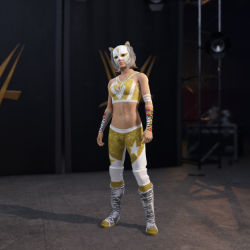
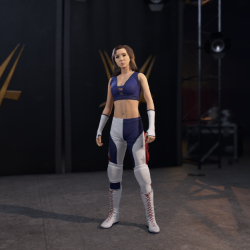
Season 3 Update
Added/updated Renders
Updated roster
Updated shows
Updated champions
Updated factions

Changed region(s): [[0.364, 0.168, 0.644, 0.952], [0.868, 0.252, 0.896, 0.28], [0.756, 0.336, 0.784, 0.364]]

diff --git a/champions.html b/champions.html
@@ -19,7 +19,7 @@
 
 <body onload="loadChampions()">
 
-	<h1 style="font-size: 2em; margin-bottom: 0;">Last Updated: WrestleMania 2</h1>
+	<h1 style="font-size: 2em; margin-bottom: 0; font-family: Verdana;">Last Updated: WrestleMania 2</h1>
 
 	<span class="all-champions-container">
 
@@ -29,7 +29,7 @@
 			<h4 id="title-1">Triple Crown Champion</h4>
 			<p id="title-current-1">Josh</p>
 			<br>
-			<p class="title-history" onclick="history1()">v TITLE HISTORY v</p>
+			<p class="title-history" onclick="openHistory(1)">v TITLE HISTORY v</p>
 			<p3 id="title-history-1" style="display: none;"></p3>
 		</div>
 
@@ -39,7 +39,7 @@
 			<h4 id="title-2">Women's Champion</h4>
 			<p id="title-current-2">Valkyrie</p>
 			<br>
-			<p class="title-history" onclick="history2()">v TITLE HISTORY v</p>
+			<p class="title-history" onclick="openHistory(2)">v TITLE HISTORY v</p>
 			<p3 id="title-history-2" style="display: none;"></p3>
 		</div>
 
@@ -49,7 +49,7 @@
 			<h4 id="title-3">Intercontinental Champion</h4>
 			<p id="title-current-3">Vacant</p>
 			<br>
-			<p class="title-history" onclick="history3()">v TITLE HISTORY v</p>
+			<p class="title-history" onclick="openHistory(3)">v TITLE HISTORY v</p>
 			<p3 id="title-history-3" style="display: none;"></p3>
 		</div>
 
@@ -59,8 +59,28 @@
 			<h4 id="title-4">United States Champion</h4>
 			<p id="title-current-4">Catwoman - 0</p>
 			<br>
-			<p class="title-history" onclick="history4()">v TITLE HISTORY v</p>
+			<p class="title-history" onclick="openHistory(4)">v TITLE HISTORY v</p>
 			<p3 id="title-history-4" style="display: none;"></p3>
+		</div>
+
+		<div class="champion-container">
+			<img width="256" height="128" src="" alt="" id="title-render-5" class="title-render">
+			<br>
+			<h4 id="title-5">ECW Championship</h4>
+			<p id="title-current-5">Vacant</p>
+			<br>
+			<p class="title-history" onclick="openHistory(5)">v TITLE HISTORY v</p>
+			<p3 id="title-history-5" style="display: none;"></p3>
+		</div>
+
+		<div class="champion-container">
+			<img width="256" height="128" src="" alt="" id="title-render-6" class="title-render">
+			<br>
+			<h4 id="title-6">Women's Hardcore Championship</h4>
+			<p id="title-current-6">Vacant</p>
+			<br>
+			<p class="title-history" onclick="openHistory(6)">v TITLE HISTORY v</p>
+			<p3 id="title-history-6" style="display: none;"></p3>
 		</div>
 	</span>
 
@@ -69,37 +89,16 @@
 <script type="text/javascript">
 	var myData;
 
-	function history1()
+	function openHistory(num)
 	{
-		var div = document.getElementById("title-history-1");
-		if (div.style.display == "block") div.style.display = "none";
-		else div.style.display = "block";
-	}
-
-	function history2()
-	{
-		var div = document.getElementById("title-history-2");
-		if (div.style.display == "block") div.style.display = "none";
-		else div.style.display = "block";
-	}
-
-	function history3()
-	{
-		var div = document.getElementById("title-history-3");
-		if (div.style.display == "block") div.style.display = "none";
-		else div.style.display = "block";
-	}
-
-	function history4()
-	{
-		var div = document.getElementById("title-history-4");
+		var div = document.getElementById("title-history-" + num);
 		if (div.style.display == "block") div.style.display = "none";
 		else div.style.display = "block";
 	}
 
     async function loadChampions()
   	{
-  		const response = await fetch("champions.json?v=1.0.0");
+  		const response = await fetch("champions.json?v=1.2");
   		const json = await response.text();
   		myData = JSON.parse(json);
 

diff --git a/factions.html b/factions.html
@@ -18,12 +18,44 @@
 </header>
 
 <body>
+	<!-- MENS FACTIONS -->
 	<div style="margin-bottom: .5em; text-align: center;">
 		<h1 style="text-decoration: underline; margin-bottom: .25em;">Evolution</h1>
 		<p4>Josh</p4>
 		<p4>King Alexander</p4>
 		<p4>Dash Anderson</p4>
 		<p4>CJ Lee</p4>
+	</div>
+
+	<div style="margin-bottom: .5em; text-align: center;">
+		<h1 style="text-decoration: underline; margin-bottom: .25em;">The Industry</h1>
+		<p4>-</p4>
+		<p4>-</p4>
+		<p4>-</p4>
+		<p4>-</p4>
+	</div>
+
+	<div style="margin-bottom: .5em; text-align: center;">
+		<h1 style="text-decoration: underline; margin-bottom: .25em;">The Originals</h1>
+		<p4>Michael</p4>
+		<p4>Tyrone</p4>
+		<p4>Gary</p4>
+	</div>
+
+
+	<!-- WOMENS FACTIONS -->
+	<div style="margin-bottom: .5em; text-align: center;">
+		<h1 style="text-decoration: underline; margin-bottom: .25em;">The Anarchists</h1>
+		<p4>-</p4>
+		<p4>-</p4>
+		<p4>-</p4>
+	</div>
+
+	<div style="margin-bottom: .5em; text-align: center;">
+		<h1 style="text-decoration: underline; margin-bottom: .25em;">Hart Foundation</h1>
+		<p4>-</p4>
+		<p4>-</p4>
+		<p4>-</p4>
 	</div>
 </body>
 

diff --git a/shows.html b/shows.html
@@ -20,6 +20,7 @@
   <body onload="loadShows()">
 
 	<select class="center" name="seasons" id="seasons" onchange="changeSeason();">
+		<option>Season 3</option>
 		<option>Season 2</option>
 	</select>
 
@@ -66,7 +67,7 @@
 
     async function loadShows()
   	{
-  		const response = await fetch("shows.json?v=1.3");
+  		const response = await fetch("shows.json?v=1.4.1");
   		const json = await response.text();
   		myData = JSON.parse(json);
 

diff --git a/index.html b/index.html
@@ -164,7 +164,7 @@
 
 	async function loadTest()
 	{
-		const response = await fetch("roster.json?v=1.9.0");
+		const response = await fetch("roster.json?v=1.9.2");
 		const json = await response.text();
 		//console.log(json);
 		
